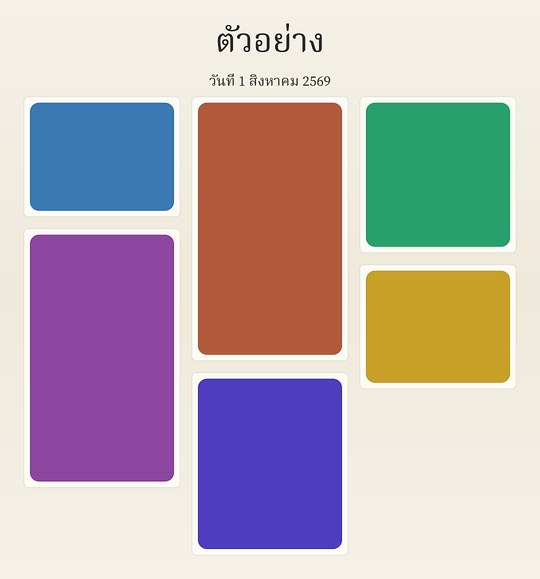
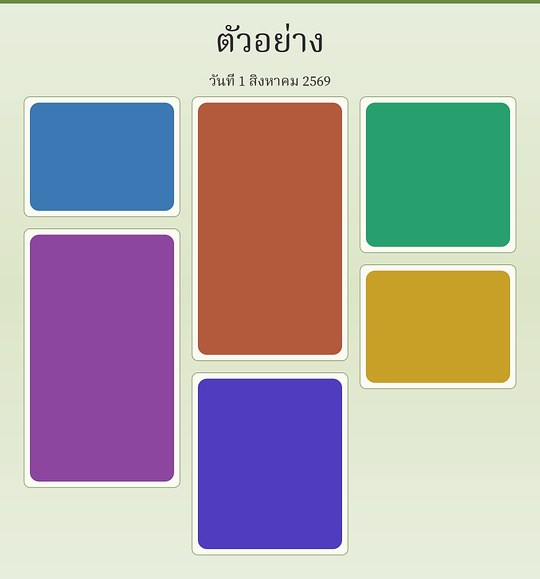
feat(themes): make claude/moss/brut distinct (stripe + colors + borders)

diff --git a/backend/design-system/core/sharp-renderer.js b/backend/design-system/core/sharp-renderer.js
@@ -167,11 +167,23 @@ export function renderBackdrop(manifest, { W, H, headerH, name, date, cards }) {
     svg.push(`<rect width="${W}" height="${H}" fill="#ffffff"/>`);
   }
 
+  const ch = c.chrome;
+  const hd = c.header || {};
+
+  // --- header stripe (themed accent bar at top edge) ---
+  if (hd.stripe) {
+    const sh = hd.stripeHeight || Math.round(headerH * 0.06);
+    const where = hd.stripePos || 'bottom'; // bottom = below header, top = above
+    if (where === 'top') {
+      svg.push(`<rect x="0" y="0" width="${W}" height="${sh}" fill="${hd.stripe}"/>`);
+    } else {
+      svg.push(`<rect x="0" y="${headerH}" width="${W}" height="${sh}" fill="${hd.stripe}"/>`);
+    }
+  }
+
   // --- header (name + date, centered, big & clear) ---
   // serif themes (claude) use Source Serif 4 for Latin + Noto Serif Thai for Thai;
   // others use Chakra Petch / Noto Sans Thai
-  const ch = c.chrome;
-  const hd = c.header || {};
   const useSerif = hd.font === 'serif';
   const nameFont = useSerif
     ? (serifFont || thaiSerifFont || thaiFont || monoFont)

diff --git a/backend/design-system/themes/moss/manifest.js b/backend/design-system/themes/moss/manifest.js
@@ -59,14 +59,15 @@ export const manifest = {
 
   /* Canvas manifest — สำหรับ collage output (sand bg, moss cells, rounded) */
   canvas: {
-    bg: { gradient: ['#f5f1e8', '#efe9db', '#f5f1e8'], vertical: true },
+    bg: { gradient: ['#e8eedd', '#dde5c8', '#e8eedd'], vertical: true },
     cell: {
-      border: 'rgba(106,140,63,0.35)', width: 1, rounded: 16,
-      bg: '#fdfbf5',
+      border: '#6a8c3f', width: 2, rounded: 24,
+      bg: '#fbfaf3',
     },
     header: {
       text: 'MOSS · GARDEN',
-      color: '#2e2a24', font: 'serif', size: 36, pad: 48, glow: false,
+      color: '#4f6d2d', font: 'serif', size: 36, pad: 48, glow: false,
+      stripe: '#6a8c3f', stripeHeight: 14, stripePos: 'top',
     },
     overlay: 'none',
     photoFx: 'none',

diff --git a/backend/design-system/themes/brut/manifest.js b/backend/design-system/themes/brut/manifest.js
@@ -56,14 +56,15 @@ export const manifest = {
 
   /* Canvas manifest — สำหรับ collage output (raw black/white/red) */
   canvas: {
-    bg: { gradient: ['#e8e4da', '#d8d4ca', '#e8e4da'], vertical: true },
+    bg: { gradient: ['#d8d4ca', '#c9c5bb', '#d8d4ca'], vertical: true },
     cell: {
-      border: '#0d0d0d', width: 2, rounded: 0,
+      border: '#0d0d0d', width: 4, rounded: 0,
       bg: '#ffffff',
     },
     header: {
       text: 'BRUT · RAW OUTPUT',
-      color: '#0d0d0d', font: 'mono', size: 36, pad: 48, glow: false,
+      color: '#ff2e00', font: 'mono', size: 40, pad: 48, glow: false,
+      stripe: '#ff2e00', stripeHeight: 20, stripePos: 'top',
     },
     overlay: 'none',
     photoFx: 'none',

diff --git a/backend/design-system/themes/claude/manifest.js b/backend/design-system/themes/claude/manifest.js
@@ -72,12 +72,13 @@ export const manifest = {
   canvas: {
     bg: { gradient: ['#faf9f5', '#f5f4ed', '#faf9f5'], vertical: true },
     cell: {
-      border: 'rgba(20,20,19,0.14)', width: 1, rounded: 8,
+      border: '#d97757', width: 2, rounded: 8,
       bg: '#ffffff',
     },
     header: {
       text: 'CLAUDE PAPER · NOTES',
-      color: '#141413', font: 'serif', size: 36, pad: 48, glow: false,
+      color: '#d97757', font: 'serif', size: 36, pad: 48, glow: false,
+      stripe: '#d97757', stripeHeight: 8, stripePos: 'top',
     },
     overlay: 'none',
     photoFx: 'none',
